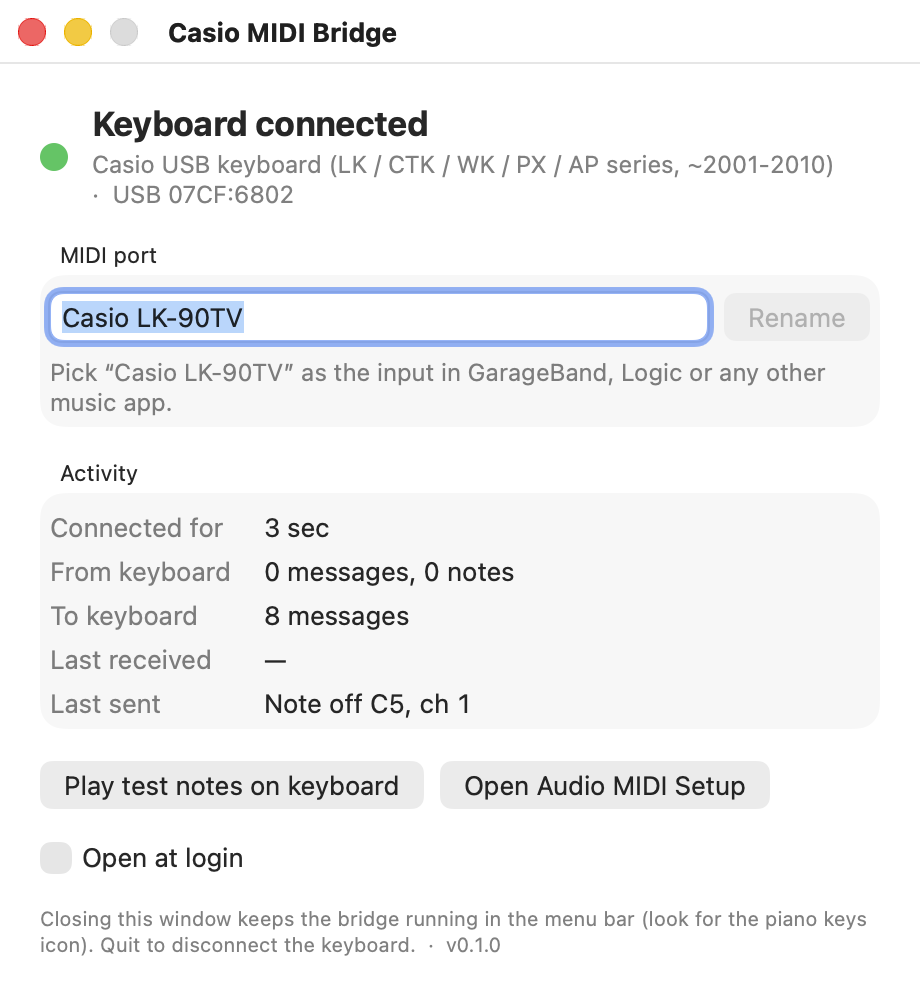
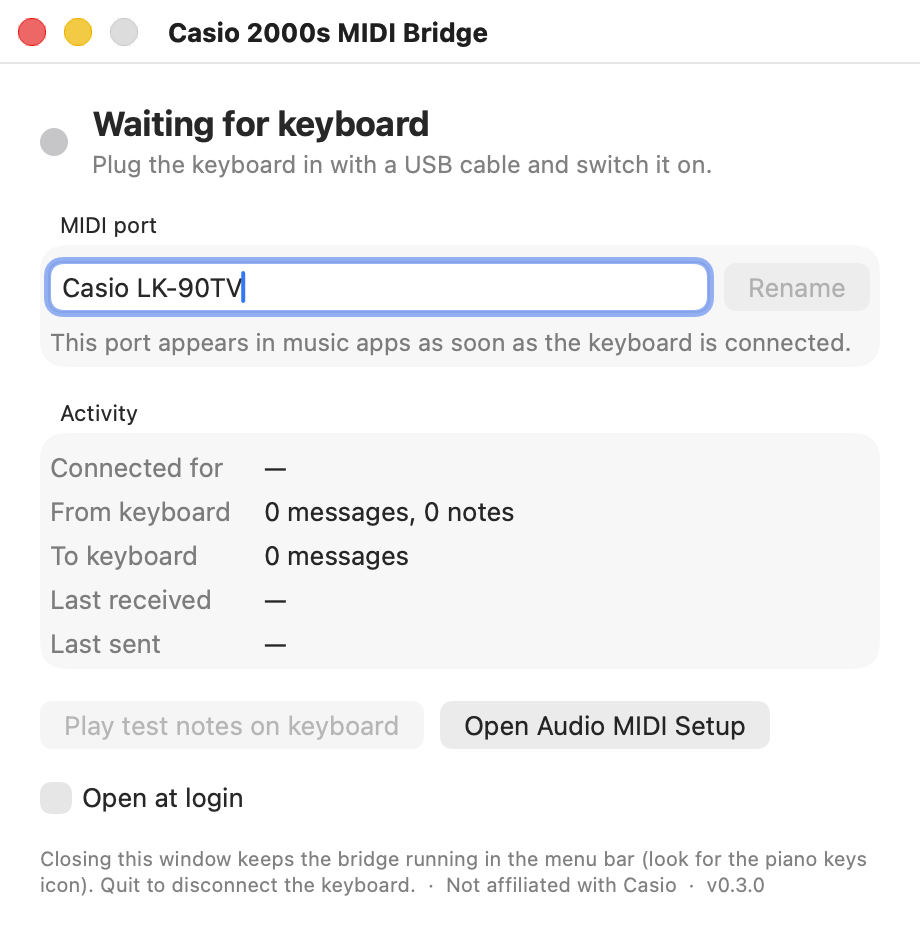
Rename to casio-2000s-midi-bridge / Casio 2000s MIDI Bridge.app; release 0.3.0

diff --git a/app/Casio2000sMIDIBridgeApp.swift b/app/Casio2000sMIDIBridgeApp.swift
@@ -1,18 +1,18 @@
-// CasioMIDIBridgeApp.swift — the macOS app front end for casio-midi-bridge.
+// Casio2000sMIDIBridgeApp.swift — the macOS app front end for casio-2000s-midi-bridge.
 // One window, quitting (or closing the window) disconnects the keyboard. MIT license.
 import SwiftUI
 import AppKit
 import ServiceManagement
 
-let agentLabel = "com.github.casio-midi-bridge"
+let agentLabel = "com.github.casio-2000s-midi-bridge"
 
 @main
-struct CasioMIDIBridgeApp: App {
+struct Casio2000sMIDIBridgeApp: App {
     @NSApplicationDelegateAdaptor(AppDelegate.self) var delegate
     @StateObject private var model = BridgeModel()
 
     var body: some Scene {
-        Window("Casio MIDI Bridge", id: "main") {
+        Window("Casio 2000s MIDI Bridge", id: "main") {
             ContentView().environmentObject(model)
         }
         .windowResizability(.contentSize)
@@ -39,7 +39,7 @@ final class AppDelegate: NSObject, NSApplicationDelegate {
         if let path = snapshotPath() {
             NSApp.activate(ignoringOtherApps: true)
             DispatchQueue.main.asyncAfter(deadline: .now() + 3.5) {
-                if let window = NSApp.windows.first(where: { $0.isVisible && $0.title == "Casio MIDI Bridge" }),
+                if let window = NSApp.windows.first(where: { $0.isVisible && $0.title == "Casio 2000s MIDI Bridge" }),
                    let content = window.contentView {
                     let view = content.superview ?? content          // superview includes the title bar
                     if let rep = view.bitmapImageRepForCachingDisplay(in: view.bounds) {
@@ -81,7 +81,7 @@ struct MenuBarContent: View {
         }
         Button("Play Test Notes on Keyboard") { model.playTestNotes() }.disabled(!connected)
         Divider()
-        Button("Quit Casio MIDI Bridge") { NSApp.terminate(nil) }
+        Button("Quit Casio 2000s MIDI Bridge") { NSApp.terminate(nil) }
     }
 }
 

diff --git a/app/icon/make-icon.swift b/app/icon/make-icon.swift
@@ -1,5 +1,5 @@
 // make-icon.swift — renders the app icon (a piano keyboard on a dark tile) into an .iconset
-// directory. Run via `make icon`. Part of casio-midi-bridge. MIT license.
+// directory. Run via `make icon`. Part of casio-2000s-midi-bridge. MIT license.
 import AppKit
 
 func render(_ px: Int) -> Data {

diff --git a/src/bridge.c b/src/bridge.c
@@ -1,5 +1,5 @@
 /*
- * bridge.c — core of casio-midi-bridge: user-space CoreMIDI bridge for Casio USB keyboards
+ * bridge.c — core of casio-2000s-midi-bridge: user-space CoreMIDI bridge for Casio USB keyboards
  * that are not USB-MIDI class compliant (USB ID 07CF:6802 and friends) and therefore get no
  * port on macOS. Public API in bridge.h; used by src/cli.c and the app in app/.
  *
@@ -78,7 +78,7 @@ static double now_abs(void) { return CFAbsoluteTimeGetCurrent(); }
 
 static void logmsg(const char *fmt, ...) {
     va_list ap; va_start(ap, fmt);
-    fprintf(stderr, "[casio-midi-bridge] "); vfprintf(stderr, fmt, ap); fputc('\n', stderr);
+    fprintf(stderr, "[casio-2000s-midi-bridge] "); vfprintf(stderr, fmt, ap); fputc('\n', stderr);
     va_end(ap);
 }
 static void logerr(const char *fmt, ...) {
@@ -88,7 +88,7 @@ static void logerr(const char *fmt, ...) {
     g.stats.errors++;
     pthread_mutex_unlock(&g.lock);
     va_end(ap);
-    fprintf(stderr, "[casio-midi-bridge] error: %s\n", g.stats.last_error);
+    fprintf(stderr, "[casio-2000s-midi-bridge] error: %s\n", g.stats.last_error);
 }
 static void logpkt(const char *dir, const uint8_t p[4]) {
     if (g.verbose) fprintf(stderr, "  %s %02X %02X %02X %02X\n", dir, p[0], p[1], p[2], p[3]);
@@ -370,7 +370,7 @@ int bridge_start(const char *port_name, int vid, int pid, int verbose) {
     memset(&g.stats, 0, sizeof g.stats);
     snprintf(g.stats.port_name, sizeof g.stats.port_name, "%s", g.port_name);
 
-    if (MIDIClientCreate(CFSTR("casio-midi-bridge"), NULL, NULL, &g.client)) { logerr("MIDIClientCreate failed"); return -1; }
+    if (MIDIClientCreate(CFSTR("casio-2000s-midi-bridge"), NULL, NULL, &g.client)) { logerr("MIDIClientCreate failed"); return -1; }
     g.notify = IONotificationPortCreate(kIOMainPortDefault);
     CFRunLoopAddSource(CFRunLoopGetMain(), IONotificationPortGetRunLoopSource(g.notify), kCFRunLoopCommonModes);
     g.running = 1;

diff --git a/src/cli.c b/src/cli.c
@@ -1,4 +1,4 @@
-/* cli.c — command-line front end for casio-midi-bridge. See README.md. MIT license. */
+/* cli.c — command-line front end for casio-2000s-midi-bridge. See README.md. MIT license. */
 #include <CoreFoundation/CoreFoundation.h>
 #include <getopt.h>
 #include <signal.h>
@@ -11,8 +11,8 @@ static void print_id(uint16_t vid, uint16_t pid, const char *desc, void *ctx) { 
 
 static void usage(FILE *f) {
     fprintf(f,
-        "casio-midi-bridge %s — CoreMIDI port for non-class-compliant Casio USB keyboards\n\n"
-        "usage: casio-midi-bridge [options]\n"
+        "casio-2000s-midi-bridge %s — CoreMIDI port for non-class-compliant Casio USB keyboards\n\n"
+        "usage: casio-2000s-midi-bridge [options]\n"
         "  -n, --name NAME   name of the virtual MIDI port (default \"Casio USB MIDI\")\n"
         "      --vid 0xVVVV  only watch this USB vendor ID (with --pid)\n"
         "      --pid 0xPPPP  only watch this USB product ID\n"
@@ -36,7 +36,7 @@ int main(int argc, char **argv) {
         case 2: pid = (int)strtol(optarg, NULL, 0); break;
         case 'v': verbose = 1; break;
         case 'l': bridge_list_known(print_id, NULL); return 0;
-        case 'V': printf("casio-midi-bridge %s\n", bridge_version()); return 0;
+        case 'V': printf("casio-2000s-midi-bridge %s\n", bridge_version()); return 0;
         case 'h': usage(stdout); return 0;
         default: usage(stderr); return 2;
         }
@@ -46,6 +46,6 @@ int main(int argc, char **argv) {
     if (bridge_start(name, vid, pid, verbose)) return 1;
     CFRunLoopRun();
     bridge_stop();
-    fprintf(stderr, "[casio-midi-bridge] exiting\n");
+    fprintf(stderr, "[casio-2000s-midi-bridge] exiting\n");
     return 0;
 }

diff --git a/tools/usbdesc.c b/tools/usbdesc.c
@@ -1,6 +1,6 @@
 /* usbdesc — dump USB configuration descriptors of attached devices (default: all Casio, VID 0x07CF).
  * Usage: usbdesc [vid [pid]]   e.g. usbdesc 0x07CF 0x6802
- * Useful for adding new keyboards; see CONTRIBUTING.md. Part of casio-midi-bridge. MIT license. */
+ * Useful for adding new keyboards; see CONTRIBUTING.md. Part of casio-2000s-midi-bridge. MIT license. */
 #include <CoreFoundation/CoreFoundation.h>
 #include <IOKit/IOKitLib.h>
 #include <IOKit/usb/IOUSBLib.h>

diff --git a/tools/midimon.c b/tools/midimon.c
@@ -1,6 +1,6 @@
 /* midimon — print every MIDI message arriving from a CoreMIDI source.
  * Usage: midimon [source name]   (default "Casio USB MIDI"; lists sources if not found)
- * Part of casio-midi-bridge. MIT license. */
+ * Part of casio-2000s-midi-bridge. MIT license. */
 #include <CoreMIDI/CoreMIDI.h>
 #include <stdio.h>
 #include <time.h>

diff --git a/src/bridge.h b/src/bridge.h
@@ -6,7 +6,7 @@
  * USB event sources on CFRunLoopGetMain() in the common run-loop modes, so it works inside
  * both a bare CFRunLoopRun() and an AppKit application.
  *
- * Part of casio-midi-bridge. MIT license.
+ * Part of casio-2000s-midi-bridge. MIT license.
  */
 #ifndef BRIDGE_H
 #define BRIDGE_H

diff --git a/src/usbmidi.h b/src/usbmidi.h
@@ -6,7 +6,7 @@
  *   byte 1-3 : up to three MIDI bytes, zero padded
  * The CIN says how many of the three MIDI bytes are meaningful (see usbmidi_cin_len).
  *
- * Part of casio-midi-bridge. MIT license.
+ * Part of casio-2000s-midi-bridge. MIT license.
  */
 #ifndef USBMIDI_H
 #define USBMIDI_H

diff --git a/README.md b/README.md
@@ -1,7 +1,7 @@
-# casio-midi-bridge
+# casio-2000s-midi-bridge
 
-[![CI](https://github.com/command-paul/casio-midi-bridge/actions/workflows/ci.yml/badge.svg)](https://github.com/command-paul/casio-midi-bridge/actions/workflows/ci.yml)
-[![Release](https://img.shields.io/github/v/release/command-paul/casio-midi-bridge)](https://github.com/command-paul/casio-midi-bridge/releases/latest)
+[![CI](https://github.com/command-paul/casio-2000s-midi-bridge/actions/workflows/ci.yml/badge.svg)](https://github.com/command-paul/casio-2000s-midi-bridge/actions/workflows/ci.yml)
+[![Release](https://img.shields.io/github/v/release/command-paul/casio-2000s-midi-bridge)](https://github.com/command-paul/casio-2000s-midi-bridge/releases/latest)
 [![License: MIT](https://img.shields.io/badge/license-MIT-blue.svg)](LICENSE)
 
 Makes old Casio USB keyboards work as MIDI controllers on modern macOS.
@@ -12,7 +12,7 @@ PX-100, AP-series and many more) all share USB ID `07CF:6802` and are **not USB-
 class compliant**. They plug in, they enumerate, and then nothing happens: no port in
 Audio MIDI Setup, nothing in GarageBand or Logic. There is no macOS driver for them.
 
-`casio-midi-bridge` is a small user-space program that talks to the keyboard directly
+`casio-2000s-midi-bridge` is a small user-space program that talks to the keyboard directly
 over USB and exposes it as a normal CoreMIDI port. No kernel extension, no `sudo`, no
 Apple entitlements.
 
@@ -20,9 +20,9 @@ Tested on macOS 26 (Apple silicon) with a Casio LK-90TV. Needs macOS 13 or later
 
 ## The app (recommended)
 
-![Casio MIDI Bridge window](docs/app-screenshot.png)
+![Casio 2000s MIDI Bridge window](docs/app-screenshot.png)
 
-**Casio MIDI Bridge.app** is a small window you open when you want to play. It shows
+**Casio 2000s MIDI Bridge.app** is a small window you open when you want to play. It shows
 whether the keyboard is connected, the name of the MIDI port to pick in your music app,
 live counters and the last message in each direction, a button that plays a few test notes
 on the keyboard, and an "Open at login" switch. Close the window and it keeps running as a
@@ -30,13 +30,13 @@ piano-keys icon in the menu bar; quit it and the keyboard is disconnected again.
 
 ### Option 1: download the app (no building needed)
 
-1. Get `Casio-MIDI-Bridge-<version>.zip` from the
-   [latest release](https://github.com/command-paul/casio-midi-bridge/releases/latest).
-2. Unzip it and drag **Casio MIDI Bridge** into your Applications folder.
+1. Get `Casio-2000s-MIDI-Bridge-<version>.zip` from the
+   [latest release](https://github.com/command-paul/casio-2000s-midi-bridge/releases/latest).
+2. Unzip it and drag **Casio 2000s MIDI Bridge** into your Applications folder.
 3. First launch only: **right-click the app → Open → Open.** macOS shows a "cannot verify
    the developer" warning because the app is not notarized with a paid Apple Developer ID.
    After that one-time step it opens normally. (Equivalent from a terminal:
-   `xattr -d com.apple.quarantine "/Applications/Casio MIDI Bridge.app"`.)
+   `xattr -d com.apple.quarantine "/Applications/Casio 2000s MIDI Bridge.app"`.)
 
 The app is self-contained: no installer, no extra files, nothing else gets modified.
 Delete it from Applications to uninstall.
@@ -47,8 +47,8 @@ Needs Xcode Command Line Tools (`xcode-select --install`), nothing else. Buildin
 also sidesteps the Gatekeeper warning.
 
 ```bash
-git clone https://github.com/command-paul/casio-midi-bridge.git
-cd casio-midi-bridge
+git clone https://github.com/command-paul/casio-2000s-midi-bridge.git
+cd casio-2000s-midi-bridge
 make install-app        # builds, copies to /Applications, opens it
 ```
 
@@ -98,7 +98,7 @@ Run it by hand to watch packets go by (stop the agent first, only one process ca
 the USB interface):
 
 ```bash
-./build/casio-midi-bridge -v
+./build/casio-2000s-midi-bridge -v
 ```
 
 ## Tools

diff --git a/docs/TROUBLESHOOTING.md b/docs/TROUBLESHOOTING.md
@@ -1,7 +1,7 @@
 # Troubleshooting
 
 Answers to the questions people actually search for. If yours isn't here,
-[open an issue](https://github.com/command-paul/casio-midi-bridge/issues/new/choose).
+[open an issue](https://github.com/command-paul/casio-2000s-midi-bridge/issues/new/choose).
 
 ## "Audio MIDI Setup does not show my Casio keyboard"
 
@@ -9,7 +9,7 @@ That's the problem this project exists for. Casio keyboards from roughly 2001–
 `07CF:6802`: LK, CTK, WK, PX, AP, CDP models with a USB port and no "class compliant" claim)
 identify themselves as a vendor-specific USB device, so macOS never creates a MIDI port
 for them. System Information → USB shows the device; Audio MIDI Setup shows nothing.
-Install [Casio MIDI Bridge](../README.md#the-app-recommended); the port appears while the
+Install [Casio 2000s MIDI Bridge](../README.md#the-app-recommended); the port appears while the
 app is running.
 
 Keyboards from about 2011 on (CT-X, CT-S, PX-S, newer Privia, and anything whose manual
@@ -28,9 +28,9 @@ The app only lists a keyboard once macOS sees it on USB. Check, in order:
    software can help; it's the cable, port or keyboard.
 5. If it *is* listed but the app still waits, your model may use a different product ID.
    Build the tools (`make`) and run `./build/usbdesc`, then
-   [open an issue](https://github.com/command-paul/casio-midi-bridge/issues/new?template=keyboard-not-detected.md)
+   [open an issue](https://github.com/command-paul/casio-2000s-midi-bridge/issues/new?template=keyboard-not-detected.md)
    with the output. You can try it immediately with
-   `./build/casio-midi-bridge --vid 0x07CF --pid 0x<yours> -v`.
+   `./build/casio-2000s-midi-bridge --vid 0x07CF --pid 0x<yours> -v`.
 
 ## The app says "Keyboard is in use by another program"
 
@@ -73,13 +73,13 @@ GarageBand can't send MIDI out. Logic, MainStage and most other DAWs can: pick t
 port as the track's MIDI output and the keyboard plays the notes with its own sounds.
 The app's "Play test notes on keyboard" button demonstrates the path works.
 
-## "Casio MIDI Bridge cannot be opened because the developer cannot be verified" / "is damaged"
+## "Casio 2000s MIDI Bridge cannot be opened because the developer cannot be verified" / "is damaged"
 
 The downloaded app isn't notarized (no paid Apple Developer ID). One-time fix: right-click
 the app → Open → Open. If macOS says it's "damaged", remove the quarantine flag instead:
 
 ```bash
-xattr -d com.apple.quarantine "/Applications/Casio MIDI Bridge.app"
+xattr -d com.apple.quarantine "/Applications/Casio 2000s MIDI Bridge.app"
 ```
 
 Building from source (`make install-app`) never triggers this.
@@ -88,15 +88,15 @@ Building from source (`make install-app`) never triggers this.
 
 Nothing the bridge uses is private API, so updates shouldn't break it, but the app is
 rebuilt on every release against the current SDK. Grab the
-[latest release](https://github.com/command-paul/casio-midi-bridge/releases/latest), and
+[latest release](https://github.com/command-paul/casio-2000s-midi-bridge/releases/latest), and
 if it's still broken open an issue with the macOS version and the app's log (Console.app,
-filter "casio-midi-bridge").
+filter "casio-2000s-midi-bridge").
 
 ## Where are the logs?
 
-* App: Console.app → filter "casio-midi-bridge". The app window also shows the last error.
-* Headless service: `~/Library/Logs/casio-midi-bridge.log`, or `make log`.
-* Everything, raw: quit the app and run `./build/casio-midi-bridge -v` in a terminal to see
+* App: Console.app → filter "casio-2000s-midi-bridge". The app window also shows the last error.
+* Headless service: `~/Library/Logs/casio-2000s-midi-bridge.log`, or `make log`.
+* Everything, raw: quit the app and run `./build/casio-2000s-midi-bridge -v` in a terminal to see
   every USB-MIDI packet.
 
 ## Does this work on Intel Macs? Older macOS?

diff --git a/CONTRIBUTING.md b/CONTRIBUTING.md
@@ -12,23 +12,23 @@ doesn't show up:
    output into an issue.
 2. If the descriptor shows one interface with a bulk/interrupt IN and OUT endpoint and
    `CS_INTERFACE` descriptors (subtypes 0x01–0x03), the wire format is almost certainly
-   standard USB-MIDI. Try `./build/casio-midi-bridge --vid 0x07CF --pid 0xXXXX -v`.
+   standard USB-MIDI. Try `./build/casio-2000s-midi-bridge --vid 0x07CF --pid 0xXXXX -v`.
 3. If that works, add the ID to `known_ids[]` in `src/main.c` with a short description
    and open a pull request. Please mention the model name in the PR.
 
 ## Development
 
 ```bash
-make            # builds build/casio-midi-bridge, build/midimon, build/usbdesc
-make app        # builds "build/Casio MIDI Bridge.app" (swiftc, no Xcode project)
+make            # builds build/casio-2000s-midi-bridge, build/midimon, build/usbdesc
+make app        # builds "build/Casio 2000s MIDI Bridge.app" (swiftc, no Xcode project)
 make icon       # regenerates app/AppIcon.icns from app/icon/make-icon.swift
 make screenshot # re-renders docs/app-screenshot.png from the running app (keyboard connected)
 make test       # unit tests for the USB-MIDI packet codec (no hardware needed)
-./build/casio-midi-bridge -v      # run in the foreground, print every packet
+./build/casio-2000s-midi-bridge -v      # run in the foreground, print every packet
 ./build/midimon "Casio USB MIDI"  # print decoded MIDI arriving from the virtual port
 ```
 
-Stop the LaunchAgent (`make uninstall` or `launchctl bootout gui/$(id -u)/com.github.casio-midi-bridge`)
+Stop the LaunchAgent (`make uninstall` or `launchctl bootout gui/$(id -u)/com.github.casio-2000s-midi-bridge`)
 before running the bridge by hand; only one process can own the USB interface.
 
 ## Code layout

diff --git a/CHANGELOG.md b/CHANGELOG.md
@@ -1,5 +1,13 @@
 # Changelog
 
+## 0.3.0 — 2026-09-18
+
+* Renamed to **casio-2000s-midi-bridge** / **Casio 2000s MIDI Bridge.app** to make clear it
+  targets the 2000s-era keyboards. The GitHub URL redirects. The app's bundle identifier
+  changed, so "Open at login" and a custom port name need to be set again after upgrading;
+  delete the old "Casio 2000s MIDI Bridge.app" from Applications.
+* "Not affiliated with Casio" disclaimer in the README, app footer and release notes.
+
 ## 0.2.0 — 2026-09-18
 
 * App: menu bar icon and menu; closing the window keeps the bridge running, Quit disconnects.
@@ -13,7 +21,7 @@
 
 Initial release.
 
-* **Casio MIDI Bridge.app**: a one-window macOS app (macOS 13+) showing connection state,
+* **Casio 2000s MIDI Bridge.app**: a one-window macOS app (macOS 13+) showing connection state,
   port name (renamable), live message counters, last message in each direction, a test-notes
   button, and an "Open at login" switch. Quitting disconnects the keyboard. Detects a running
   headless service and offers to stop it.
